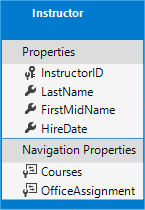
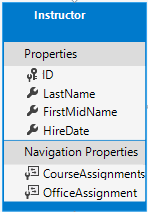
change join entity nav ppty names

Changed region(s): [[0.0, 0.0, 1.0, 1.0]]

diff --git a/aspnetcore/data/ef-mvc/intro/samples/cu/Controllers/InstructorsController.cs b/aspnetcore/data/ef-mvc/intro/samples/cu/Controllers/InstructorsController.cs
@@ -40,11 +40,11 @@ namespace ContosoUniversity.Controllers
             var viewModel = new InstructorIndexData();
             viewModel.Instructors = await _context.Instructors
                   .Include(i => i.OfficeAssignment)
-                  .Include(i => i.Courses)
+                  .Include(i => i.CourseAssignments)
                     .ThenInclude(i => i.Course)
                         .ThenInclude(i => i.Enrollments)
                             .ThenInclude(i => i.Student)
-                  .Include(i => i.Courses)
+                  .Include(i => i.CourseAssignments)
                     .ThenInclude(i => i.Course)
                         .ThenInclude(i => i.Department)
                   .AsNoTracking()
@@ -56,7 +56,7 @@ namespace ContosoUniversity.Controllers
                 ViewData["InstructorID"] = id.Value;
                 Instructor instructor = viewModel.Instructors.Where(
                     i => i.ID == id.Value).Single();
-                viewModel.Courses = instructor.Courses.Select(s => s.Course);
+                viewModel.Courses = instructor.CourseAssignments.Select(s => s.Course);
             }
 
             if (courseID != null)
@@ -76,9 +76,9 @@ namespace ContosoUniversity.Controllers
             var viewModel = new InstructorIndexData();
             viewModel.Instructors = await _context.Instructors
                   .Include(i => i.OfficeAssignment)
-                  .Include(i => i.Courses)
+                  .Include(i => i.CourseAssignments)
                     .ThenInclude(i => i.Course)
-                  .Include(i => i.Courses)
+                  .Include(i => i.CourseAssignments)
                     .ThenInclude(i => i.Course)
                         .ThenInclude(i => i.Department)
                   .OrderBy(i => i.LastName)
@@ -89,7 +89,7 @@ namespace ContosoUniversity.Controllers
                 ViewData["InstructorID"] = id.Value;
                 Instructor instructor = viewModel.Instructors.Where(
                     i => i.ID == id.Value).Single();
-                viewModel.Courses = instructor.Courses.Select(s => s.Course);
+                viewModel.Courses = instructor.CourseAssignments.Select(s => s.Course);
             }
 
             if (courseID != null)
@@ -132,7 +132,7 @@ namespace ContosoUniversity.Controllers
         public IActionResult Create()
         {
             var instructor = new Instructor();
-            instructor.Courses = new List<CourseAssignment>();
+            instructor.CourseAssignments = new List<CourseAssignment>();
             PopulateAssignedCourseData(instructor);
             return View();
         }
@@ -144,11 +144,11 @@ namespace ContosoUniversity.Controllers
         {
             if (selectedCourses != null)
             {
-                instructor.Courses = new List<CourseAssignment>();
+                instructor.CourseAssignments = new List<CourseAssignment>();
                 foreach (var course in selectedCourses)
                 {
                     var courseToAdd = new CourseAssignment { InstructorID = instructor.ID, CourseID = int.Parse(course) };
-                    instructor.Courses.Add(courseToAdd);
+                    instructor.CourseAssignments.Add(courseToAdd);
                 }
             }
             if (ModelState.IsValid)
@@ -193,7 +193,7 @@ namespace ContosoUniversity.Controllers
 
             var instructor = await _context.Instructors
                 .Include(i => i.OfficeAssignment)
-                .Include(i => i.Courses).ThenInclude(i => i.Course)
+                .Include(i => i.CourseAssignments).ThenInclude(i => i.Course)
                 .AsNoTracking()
                 .SingleOrDefaultAsync(m => m.ID == id);
             if (instructor == null)
@@ -207,7 +207,7 @@ namespace ContosoUniversity.Controllers
         private void PopulateAssignedCourseData(Instructor instructor)
         {
             var allCourses = _context.Courses;
-            var instructorCourses = new HashSet<int>(instructor.Courses.Select(c => c.Course.CourseID));
+            var instructorCourses = new HashSet<int>(instructor.CourseAssignments.Select(c => c.Course.CourseID));
             var viewModel = new List<AssignedCourseData>();
             foreach (var course in allCourses)
             {
@@ -279,7 +279,7 @@ namespace ContosoUniversity.Controllers
 
             var instructorToUpdate = await _context.Instructors
                 .Include(i => i.OfficeAssignment)
-                .Include(i => i.Courses)
+                .Include(i => i.CourseAssignments)
                     .ThenInclude(i => i.Course)
                 .SingleOrDefaultAsync(m => m.ID == id);
 
@@ -315,20 +315,20 @@ namespace ContosoUniversity.Controllers
         {
             if (selectedCourses == null)
             {
-                instructorToUpdate.Courses = new List<CourseAssignment>();
+                instructorToUpdate.CourseAssignments = new List<CourseAssignment>();
                 return;
             }
 
             var selectedCoursesHS = new HashSet<string>(selectedCourses);
             var instructorCourses = new HashSet<int>
-                (instructorToUpdate.Courses.Select(c => c.Course.CourseID));
+                (instructorToUpdate.CourseAssignments.Select(c => c.Course.CourseID));
             foreach (var course in _context.Courses)
             {
                 if (selectedCoursesHS.Contains(course.CourseID.ToString()))
                 {
                     if (!instructorCourses.Contains(course.CourseID))
                     {
-                        instructorToUpdate.Courses.Add(new CourseAssignment { InstructorID = instructorToUpdate.ID, CourseID = course.CourseID });
+                        instructorToUpdate.CourseAssignments.Add(new CourseAssignment { InstructorID = instructorToUpdate.ID, CourseID = course.CourseID });
                     }
                 }
                 else
@@ -336,7 +336,7 @@ namespace ContosoUniversity.Controllers
 
                     if (instructorCourses.Contains(course.CourseID))
                     {
-                        CourseAssignment courseToRemove = instructorToUpdate.Courses.SingleOrDefault(i => i.CourseID == course.CourseID);
+                        CourseAssignment courseToRemove = instructorToUpdate.CourseAssignments.SingleOrDefault(i => i.CourseID == course.CourseID);
                         _context.Remove(courseToRemove);
                     }
                 }
@@ -369,7 +369,7 @@ namespace ContosoUniversity.Controllers
         public async Task<IActionResult> DeleteConfirmed(int id)
         {
             Instructor instructor = await _context.Instructors
-                .Include(i => i.Courses)
+                .Include(i => i.CourseAssignments)
                 .SingleAsync(i => i.ID == id);
 
             var departments = await _context.Departments

diff --git a/aspnetcore/data/ef-mvc/intro/samples/cu/Models/Instructor.cs b/aspnetcore/data/ef-mvc/intro/samples/cu/Models/Instructor.cs
@@ -35,7 +35,7 @@ namespace ContosoUniversity.Models
             get { return LastName + ", " + FirstMidName; }
         }
 
-        public ICollection<CourseAssignment> Courses { get; set; }
+        public ICollection<CourseAssignment> CourseAssignments { get; set; }
         public OfficeAssignment OfficeAssignment { get; set; }
     }
 }
@@ -56,7 +56,7 @@ namespace ContosoUniversity.Models
         [Display(Name = "Hire Date")]
         public DateTime HireDate { get; set; }
 
-        public ICollection<CourseAssignment> Courses { get; set; }
+        public ICollection<CourseAssignment> CourseAssignments { get; set; }
         public OfficeAssignment OfficeAssignment { get; set; }
     }
 }

diff --git a/aspnetcore/data/ef-mvc/intro/samples/cu/Models/Course.cs b/aspnetcore/data/ef-mvc/intro/samples/cu/Models/Course.cs
@@ -43,7 +43,7 @@ namespace ContosoUniversity.Models
 
         public Department Department { get; set; }
         public ICollection<Enrollment> Enrollments { get; set; }
-        public ICollection<CourseAssignment> Instructors { get; set; }
+        public ICollection<CourseAssignment> CourseAssignments { get; set; }
     }
 }
 #endregion

diff --git a/aspnetcore/data/ef-mvc/intro/samples/cu/Startup.cs b/aspnetcore/data/ef-mvc/intro/samples/cu/Startup.cs
@@ -1,5 +1,4 @@
-m;
-using System.Collections.Generic;
+using System.Collections.Generic;
 using System.Linq;
 using System.Threading.Tasks;
 using Microsoft.AspNetCore.Builder;

diff --git a/aspnetcore/data/ef-mvc/update-related-data.md b/aspnetcore/data/ef-mvc/update-related-data.md
@@ -199,19 +199,19 @@ Next, add the code that's executed when the user clicks **Save**. Replace the `E
 
 The method signature is now different from the HttpGet `Edit` method, so the method name changes from `EditPost` back to `Edit`.
 
-Since the view doesn't have a collection of Course entities, the model binder can't automatically update the `Courses` navigation property. Instead of using the model binder to update the `Courses` navigation property, you do that in the new `UpdateInstructorCourses` method. Therefore you need to exclude the `Courses` property from model binding. This doesn't require any change to the code that calls `TryUpdateModel` because you're using the whitelisting overload and `Courses` isn't in the include list.
+Since the view doesn't have a collection of Course entities, the model binder can't automatically update the `CourseAssignments` navigation property. Instead of using the model binder to update the `CourseAssignments` navigation property, you do that in the new `UpdateInstructorCourses` method. Therefore you need to exclude the `CourseAssignments` property from model binding. This doesn't require any change to the code that calls `TryUpdateModel` because you're using the whitelisting overload and `CourseAssignments` isn't in the include list.
 
-If no check boxes were selected, the code in `UpdateInstructorCourses` initializes the `Courses` navigation property with an empty collection and returns:
+If no check boxes were selected, the code in `UpdateInstructorCourses` initializes the `CourseAssignments` navigation property with an empty collection and returns:
 
 [!code-csharp[Main](intro/samples/cu/Controllers/InstructorsController.cs?name=snippet_UpdateCourses&highlight=3-7)]
 
 The code then loops through all courses in the database and checks each course against the ones currently assigned to the instructor versus the ones that were selected in the view. To facilitate efficient lookups, the latter two collections are stored in `HashSet` objects.
 
-If the check box for a course was selected but the course isn't in the `Instructor.Courses` navigation property, the course is added to the collection in the navigation property.
+If the check box for a course was selected but the course isn't in the `Instructor.CourseAssignments` navigation property, the course is added to the collection in the navigation property.
 
 [!code-csharp[Main](intro/samples/cu/Controllers/InstructorsController.cs?highlight=14-20&name=snippet_UpdateCourses)]
 
-If the check box for a course wasn't selected, but the course is in the `Instructor.Courses` navigation property, the course is removed from the navigation property.
+If the check box for a course wasn't selected, but the course is in the `Instructor.CourseAssignments` navigation property, the course is removed from the navigation property.
 
 [!code-csharp[Main](intro/samples/cu/Controllers/InstructorsController.cs?highlight=21-29&name=snippet_UpdateCourses)]
 
@@ -245,7 +245,7 @@ In *InstructorsController.cs*, delete the `DeleteConfirmed` method and insert th
 
 This code makes the following changes:
 
-* Does eager loading for the `Courses` navigation property.  You have to include this or EF won't know about related `CourseAssignment` entities and won't delete them.  To avoid needing to read them here you could configure cascade delete in the database.
+* Does eager loading for the `CourseAssignments` navigation property.  You have to include this or EF won't know about related `CourseAssignment` entities and won't delete them.  To avoid needing to read them here you could configure cascade delete in the database.
 
 * If the instructor to be deleted is assigned as administrator of any departments, removes the instructor assignment from those departments.
 
@@ -257,32 +257,32 @@ In *InstructorController.cs*, delete the HttpGet and HttpPost `Create` methods, 
 
 This code is similar to what you saw for the `Edit` methods except that initially no courses are selected. The HttpGet `Create` method calls the `PopulateAssignedCourseData` method not because there might be courses selected but in order to provide an empty collection for the `foreach` loop in the view (otherwise the view code would throw a null reference exception).
 
-The HttpPost `Create` method adds each selected course to the `Courses` navigation property before it checks for validation errors and adds the new instructor to the database. Courses are added even if there are model errors so that when there are model errors (for an example, the user keyed an invalid date), and the page is redisplayed with an error message, any course selections that were made are automatically restored.
+The HttpPost `Create` method adds each selected course to the `CourseAssignments` navigation property before it checks for validation errors and adds the new instructor to the database. Courses are added even if there are model errors so that when there are model errors (for an example, the user keyed an invalid date), and the page is redisplayed with an error message, any course selections that were made are automatically restored.
 
-Notice that in order to be able to add courses to the `Courses` navigation property you have to initialize the property as an empty collection:
+Notice that in order to be able to add courses to the `CourseAssignments` navigation property you have to initialize the property as an empty collection:
 
 ```csharp
-instructor.Courses = new List<CourseAssignment>();
+instructor.CourseAssignments = new List<CourseAssignment>();
 ```
 
 As an alternative to doing this in controller code, you could do it in the Instructor model by changing the property getter to automatically create the collection if it doesn't exist, as shown in the following example:
 
 ```csharp
-private ICollection<CourseAssignment> _courses;
-public ICollection<CourseAssignment> Courses
+private ICollection<CourseAssignment> _courseAssignments;
+public ICollection<CourseAssignment> CourseAssignments
 {
     get
     {
-        return _courses ?? (_courses = new List<CourseAssignment>());
+        return _courseAssignments ?? (_courseAssignments = new List<CourseAssignment>());
     }
     set
     {
-        _courses = value;
+        _courseAssignments = value;
     }
 }
 ```
 
-If you modify the `Courses` property in this way, you can remove the explicit property initialization code in the controller.
+If you modify the `CourseAssignments` property in this way, you can remove the explicit property initialization code in the controller.
 
 In *Views/Instructor/Create.cshtml*, add an office location text box and check boxes for courses before the Submit button. As in the case of the Edit page, this will work better if you do it in a text editor such as Notepad.
 

diff --git a/aspnetcore/data/ef-mvc/read-related-data.md b/aspnetcore/data/ef-mvc/read-related-data.md
@@ -123,27 +123,18 @@ Replace the Index method with the following code to do eager loading of related 
 
 The method accepts optional route data (`id`) and a query string parameter (`courseID`) that provide the ID values of the selected instructor and selected course. The parameters are provided by the **Select** hyperlinks on the page.
 
-The code begins by creating an instance of the view model and putting in it the list of instructors. The code specifies eager loading for the `Instructor.OfficeAssignment` and the `Instructor.Courses` navigation property. Within the `Courses` property, the `Enrollments` and `Department` properties are loaded, and within each `Enrollment` entity the `Student` property is loaded.
+The code begins by creating an instance of the view model and putting in it the list of instructors. The code specifies eager loading for the `Instructor.OfficeAssignment` and the `Instructor.CourseAssignments` navigation properties. Within the `CourseAssignments` property, the `Courrse` property is loaded, and within that, the `Enrollments` and `Department` properties are loaded, and within each `Enrollment` entity the `Student` property is loaded.
 
 [!code-csharp[Main](intro/samples/cu/Controllers/InstructorsController.cs?range=41-52)]
 
 Since the view always requires the OfficeAssignment entity, it's more efficient to fetch that in the same query. Course entities are required when an instructor is selected in the web page, so a single query is better than multiple queries only if the page is displayed more often with a course selected than without.
 
-The reason for
-```csharp
-.Include(i => i.Courses).ThenInclude(i => i.Course)
-```
-is that `Courses` is the navigation property for the `CourseAssignment` join entity (it doesn't have `Course` entities), so you still have to get the `Course` entity out of the join entity which has both `Course` and `Instructor`.
 
-The `Enrollments` property does have `Enrollment` entities, so you can go directly from `Enrollments` to `Student`, which is a navigation property in the `Enrollment` entity.
-
-`Courses` is included twice because you need multiple properties at the second `Include` level. That is, from the `Course` entity you want both `Enrollments` and `Department`. But once you've called `ThenInclude` on `Course` to get `Enrollments`, another `ThenInclude` would get you properties in `Enrollments`, not in `Course`. So you have to start over with `.Include` for `Courses` in order to get the second property that you want from `Course`.
-
-The following code executes when an instructor was selected. The selected instructor is retrieved from the list of instructors in the view model. The view model's `Courses` property is then loaded with the Course entities from that instructor's `Courses` navigation property.
+The following code executes when an instructor was selected. The selected instructor is retrieved from the list of instructors in the view model. The view model's `Courses` property is then loaded with the Course entities from that instructor's `CourseAssignments` navigation property.
 
 [!code-csharp[Main](intro/samples/cu/Controllers/InstructorsController.cs?range=54-60)]
 
-The `Where` method returns a collection, but in this case the criteria passed to that method result in only a single Instructor entity being returned. The `Single` method converts the collection into a single Instructor entity, which gives you access to that entity's `Courses` property. The `Courses` property contains `CourseInstructor` entities, from which you want only the related Course entities.
+The `Where` method returns a collection, but in this case the criteria passed to that method result in only a single Instructor entity being returned. The `Single` method converts the collection into a single Instructor entity, which gives you access to that entity's `CourseAssignments` property. The `CourseAssignments` property contains `CourseAssignment` entities, from which you want only the related `Course` entities.
 
 You use the `Single` method on a collection when you know the collection will have only one item. The Single method throws an exception if the collection passed to it is empty or if there's more than one item. An alternative is `SingleOrDefault`, which returns a default value (null in this case) if the collection is empty. However, in this case that would still result in an exception (from trying to find a `Courses` property on a null reference), and the exception message would less clearly indicate the cause of the problem. When you call the `Single` method, you can also pass in the Where condition instead of calling the `Where` method separately:
 
@@ -226,7 +217,7 @@ Run the page and select an instructor. Then select a course to see the list of e
 
 ## Explicit loading
 
-When you retrieved the list of instructors in *InstructorsController.cs*, you specified eager loading for the `Courses` navigation property.
+When you retrieved the list of instructors in *InstructorsController.cs*, you specified eager loading for the `CourseAssignments` navigation property.
 
 Suppose you expected users to only rarely want to see enrollments in a selected instructor and course. In that case, you might want to load the enrollment data only if it's requested. To see an example of how to do explicit loading, replace the `Index` method with the following code, which removes eager loading for Enrollments and loads that property explicitly. The code changes are highlighted.
 

diff --git a/aspnetcore/data/ef-mvc/complex-data-model.md b/aspnetcore/data/ef-mvc/complex-data-model.md
@@ -168,14 +168,14 @@ You can put multiple attributes on one line, so you could also write the `HireDa
 [DataType(DataType.Date),Display(Name = "Hire Date"),DisplayFormat(DataFormatString = "{0:yyyy-MM-dd}", ApplyFormatInEditMode = true)]
 ```
 
-### The Courses and OfficeAssignment navigation properties
+### The CourseAssignments and OfficeAssignment navigation properties
 
-The `Courses` and `OfficeAssignment` properties are navigation properties.
+The `CourseAssignments` and `OfficeAssignment` properties are navigation properties.
 
-An instructor can teach any number of courses, so `Courses` is defined as a collection.
+An instructor can teach any number of courses, so `CourseAssignments` is defined as a collection.
 
 ```csharp
-public ICollection<CourseAssignment> Courses { get; set; }
+public ICollection<CourseAssignment> CourseAssignments { get; set; }
 ```
 
 If a navigation property can hold multiple entities, its type must be a list in which entries can be added, deleted, and updated.  You can specify `ICollection<T>` or a type such as `List<T>` or `HashSet<T>`. If you specify `ICollection<T>`, EF creates a `HashSet<T>` collection by default.
@@ -258,10 +258,10 @@ A course can have any number of students enrolled in it, so the `Enrollments` na
 public ICollection<Enrollment> Enrollments { get; set; }
 ```
 
-A course may be taught by multiple instructors, so the `Instructors` navigation property is a collection:
+A course may be taught by multiple instructors, so the `Instructors` navigation property is a collection (the type `CourseAssignment` is explained [later](#many-to-many-relationships):
 
 ```csharp
-public ICollection<Instructor> Instructors { get; set; }
+public ICollection<CourseAssignment> Instructors { get; set; }
 ```
 
 ## Create the Department entity
